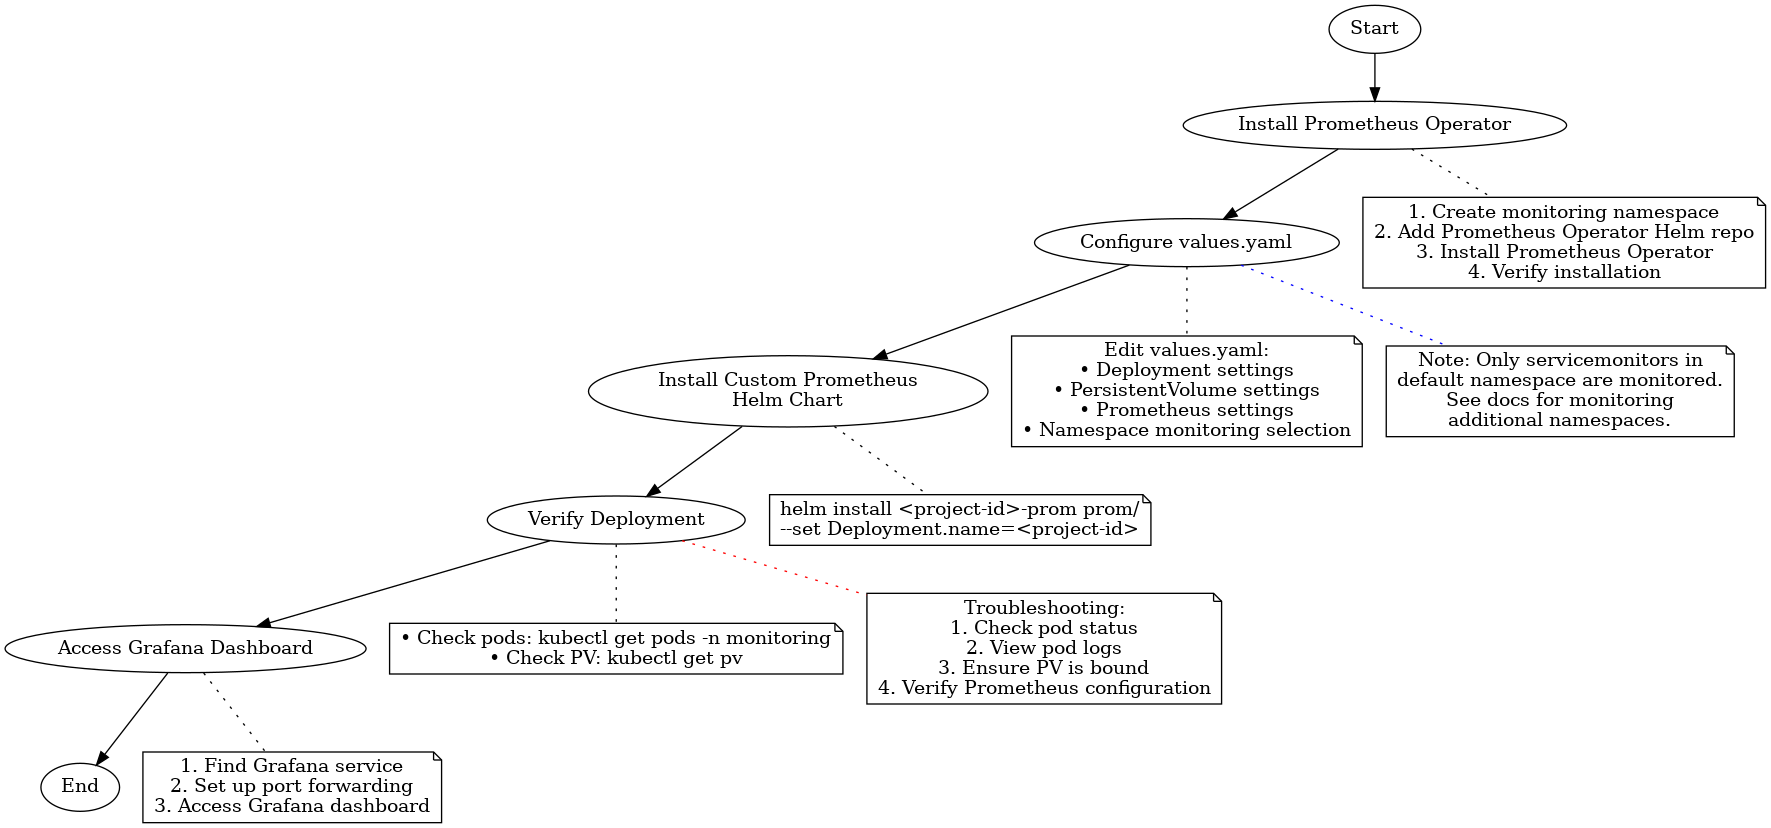
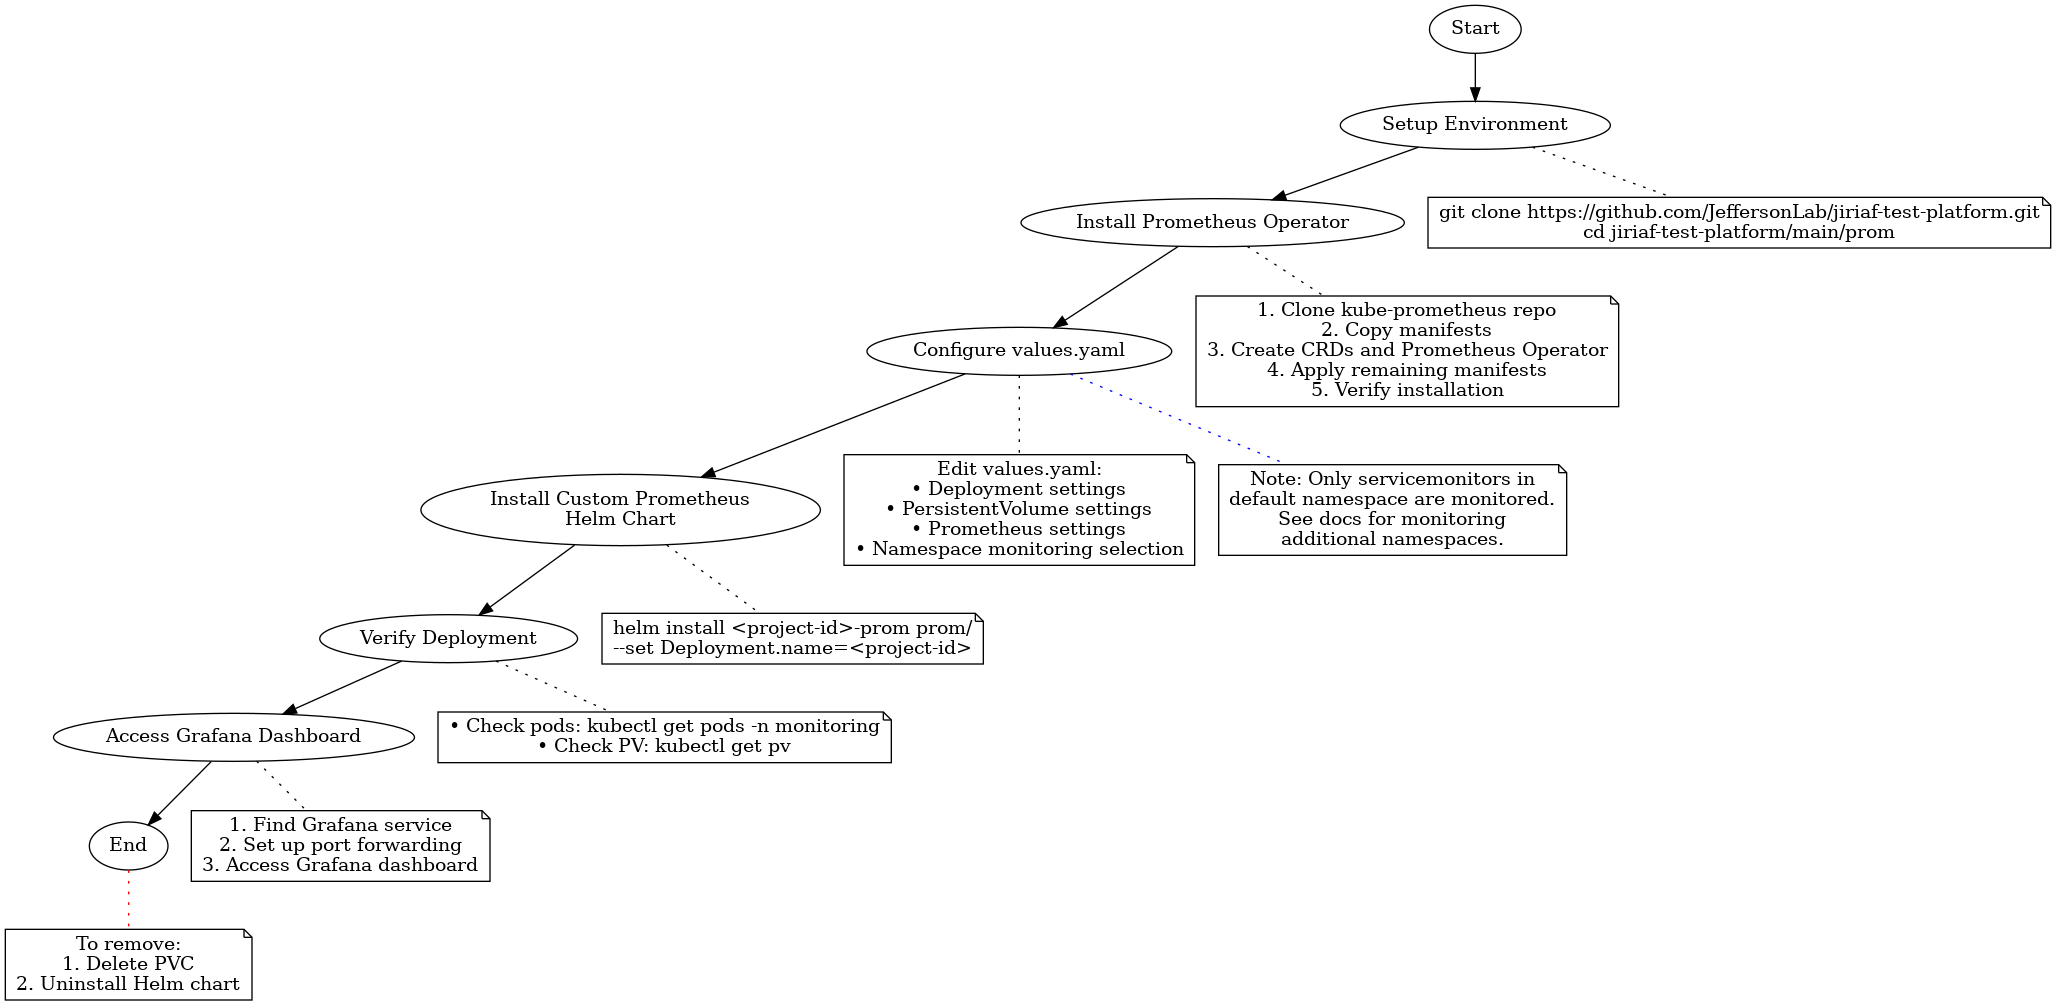
update image

diff --git a/main/prom/readme.md b/main/prom/readme.md
@@ -6,7 +6,7 @@ This guide outlines the deployment process for a custom Prometheus monitoring se
 
 Ensure your Kubernetes cluster has:
 
-1. [Prometheus Operator](https://github.com/prometheus-operator/prometheus-operator#quickstart)
+1. [Prometheus Operator](hhttps://github.com/prometheus-operator/kube-prometheus)
 2. [Kubernetes Metrics Server](https://github.com/kubernetes-sigs/metrics-server#installation)
 3. [Helm](https://helm.sh/docs/intro/install/)
 
